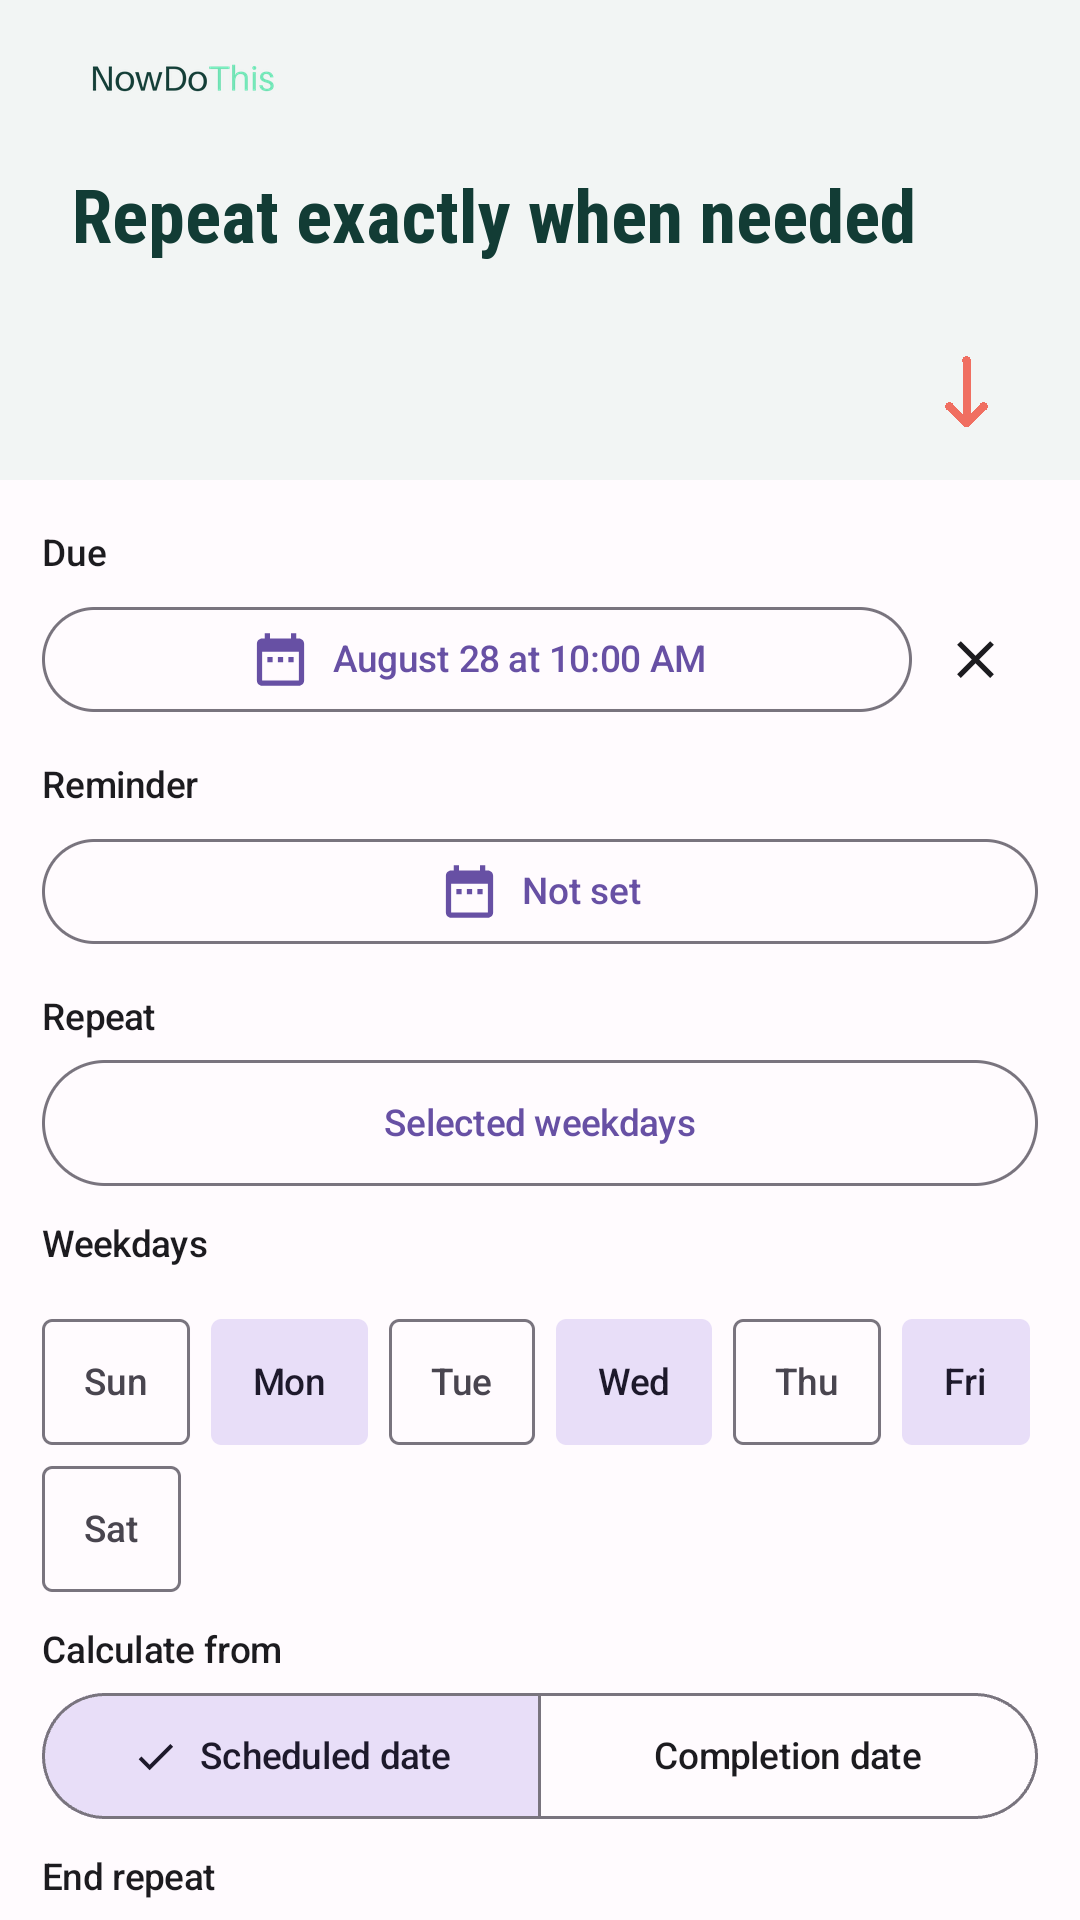
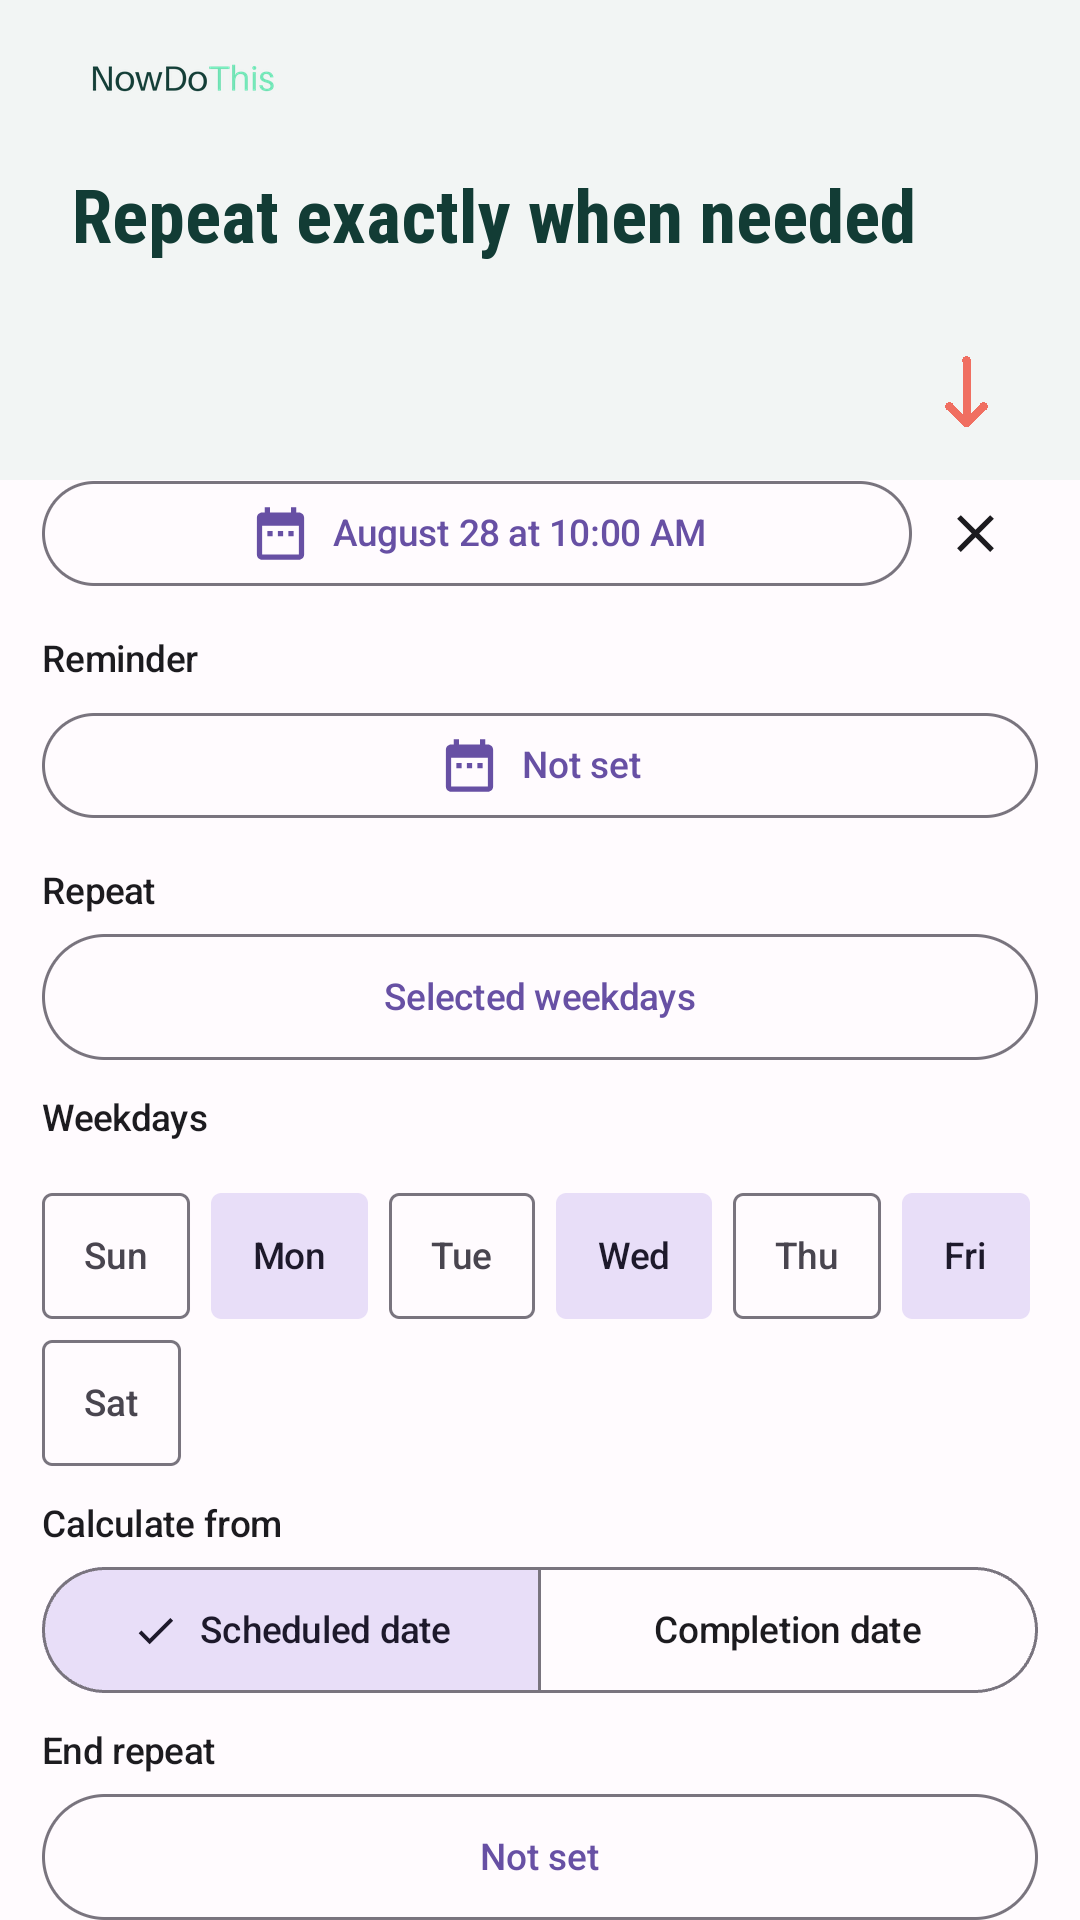
fix: complete recurrence screenshot controls

diff --git a/tools/store_media/test_media.py b/tools/store_media/test_media.py
@@ -504,19 +504,32 @@ class PhoneRendererTest(unittest.TestCase):
 
         self.assertAlmostEqual(right - left, bottom - top, delta=1)
 
-    def test_recurrence_crop_uses_the_control_region(self) -> None:
-        capture = Image.new("RGB", (1080, 2400), (10, 20, 30))
+    def test_recurrence_crop_keeps_complete_semantic_control_pairs(self) -> None:
+        background = (10, 20, 30)
+        category_edge = (180, 20, 20)
+        due_selector = (40, 120, 180)
+        end_repeat_heading = (180, 120, 40)
+        end_repeat_selector = (40, 180, 100)
+        navigation_edge = (120, 40, 180)
+        capture = Image.new("RGB", (1080, 2400), background)
         draw = ImageDraw.Draw(capture)
-        draw.rectangle((0, 771, 1079, 2210), fill=(40, 50, 60))
-        draw.rectangle((0, 2211, 1079, 2399), fill=(70, 80, 90))
+        draw.rectangle((0, 768, 1079, 770), fill=category_edge)
+        draw.rectangle((0, 898, 1079, 1002), fill=due_selector)
+        draw.rectangle((0, 2153, 1079, 2180), fill=end_repeat_heading)
+        draw.rectangle((0, 2211, 1079, 2336), fill=end_repeat_selector)
+        draw.rectangle((0, 2364, 1079, 2399), fill=navigation_edge)
         recurrence = screenshot(
             4, slug="recurrence", headline="Repeat exactly when needed"
         )
 
         output = self.renderer()(capture, recurrence, self.brand)
+        visible_rows = [output.getpixel((540, y)) for y in range(480, 1920)]
 
-        self.assertEqual((40, 50, 60), output.getpixel((540, 480)))
-        self.assertEqual((40, 50, 60), output.getpixel((540, 1919)))
+        self.assertNotIn(category_edge, visible_rows)
+        self.assertEqual(105, visible_rows.count(due_selector))
+        self.assertEqual(28, visible_rows.count(end_repeat_heading))
+        self.assertEqual(126, visible_rows.count(end_repeat_selector))
+        self.assertNotIn(navigation_edge, visible_rows)
 
     def test_coral_accent_is_reserved_for_recurrence(self) -> None:
         focus = self.renderer()(self.capture, screenshot(1, slug="focus"), self.brand)

diff --git a/tools/store_media/media.py b/tools/store_media/media.py
@@ -43,8 +43,8 @@ PHONE_WORDMARK_SIZE = (220, 48)
 PHONE_WORDMARK_POSITION = (72, 54)
 HEADLINE_FONT_SIZE = 74
 HEADLINE_FONT_PATH = Path(__file__).with_name("fonts") / "RobotoCondensed-Bold.ttf"
-# Native source rows 771-2210 isolate complete recurrence controls at both edges.
-RECURRENCE_CROP_ANCHOR = 771 / 960
+# Native rows 897-2336 keep complete due and end-repeat selectors at both edges.
+RECURRENCE_CROP_ANCHOR = 897 / 960
 CONTACT_SHEET_SIZE = (906, 1032)
 CONTACT_SHEET_MARGIN = 24
 CONTACT_SHEET_GAP = 24
